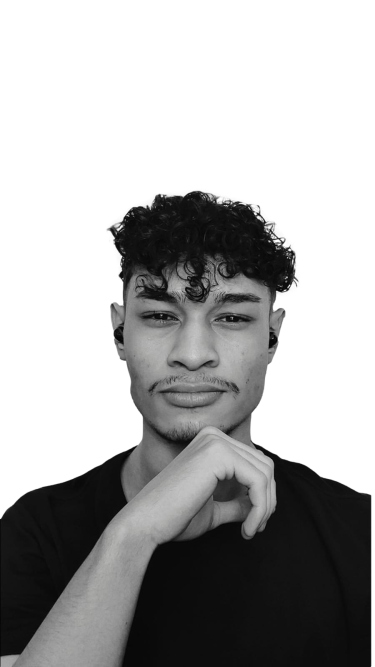
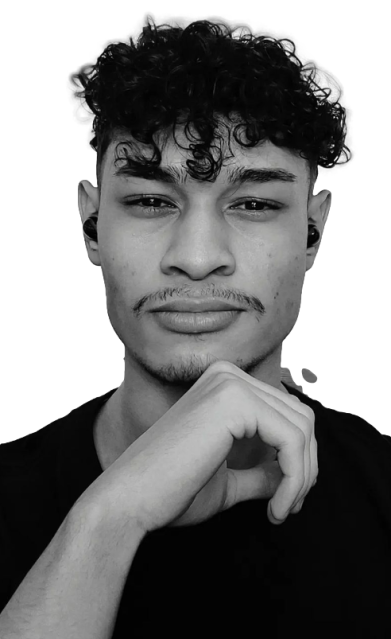
up6.2

diff --git a/portifolio-web/src/components/NavBar.jsx b/portifolio-web/src/components/NavBar.jsx
@@ -1,50 +1,49 @@
 import React from 'react';
 import { useState, useEffect } from 'react';
 import { Navbar, Nav, Container } from "react-bootstrap";
-import Logo from '../assets/img/logo.svg';
 import NavIcon1 from '../assets/img/nav-icon1.svg';
 import NavIcon2 from '../assets/img/github.png';
 import NavIcon3 from '../assets/img/nav-icon3.svg';
-export  const NavBar = () => {
-    const [activeLink, setActiveLink ] = useState('home');
+export const NavBar = () => {
+    const [activeLink, setActiveLink] = useState('home');
     const [scrolled, setScrolled] = useState(false);
 
-    useEffect(()=>{
-        const onScroll = () =>{
-            if(window.scrollY > 50){
+    useEffect(() => {
+        const onScroll = () => {
+            if (window.scrollY > 50) {
                 setScrolled(true);
-            }else{
+            } else {
                 setScrolled(false);
             }
-        } 
+        }
         window.addEventListener("scroll", onScroll);
 
         return () => window.removeEventListener("scroll", onScroll);
     }, [])
 
-    const onUpdateActiveLink = (value) =>{
+    const onUpdateActiveLink = (value) => {
         setActiveLink(value);
-    } 
+    }
     return (
         <>
-            <Navbar expand="lg" className={scrolled ? "scrolled": ""}>
+            <Navbar expand="lg" className={scrolled ? "scrolled" : ""}>
                 <Container>
                     <Navbar.Brand href="#home">
-                        <img src={Logo} alt="Logo" /> </Navbar.Brand>
+                    </Navbar.Brand>
                     <Navbar.Toggle aria-controls="basic-navbar-nav">
                         <span className='navbar-toggler-icon'></span>
                     </Navbar.Toggle>
                     <Navbar.Collapse id="basic-navbar-nav">
                         <Nav className="me-auto">
-                            <Nav.Link href="#home" className={activeLink === 'home' ? 'active navbar-link': 'navbar-link'} onClick={()=> onUpdateActiveLink('home')}>Home</Nav.Link>
-                            <Nav.Link href="#skills" className={activeLink === 'skills' ? 'active navbar-link': 'navbar-link' } onClick={()=> onUpdateActiveLink('skills')}>Skills</Nav.Link>
-                            <Nav.Link href="#projects" className={activeLink === 'projects' ? 'active navbar-link': 'navbar-link' } onClick={()=> onUpdateActiveLink('projects')}>Projetos</Nav.Link>
+                            <Nav.Link href="#home" className={activeLink === 'home' ? 'active navbar-link' : 'navbar-link'} onClick={() => onUpdateActiveLink('home')}>Home</Nav.Link>
+                            <Nav.Link href="#skills" className={activeLink === 'skills' ? 'active navbar-link' : 'navbar-link'} onClick={() => onUpdateActiveLink('skills')}>Skills</Nav.Link>
+                            <Nav.Link href="#projects" className={activeLink === 'projects' ? 'active navbar-link' : 'navbar-link'} onClick={() => onUpdateActiveLink('projects')}>Projetos</Nav.Link>
                         </Nav>
                         <span className='navbar-text'>
                             <div className='social-icon'>
-                                <a target="_blank" href='https://www.linkedin.com/in/matheus-emanoel-995b23181/'><img src={NavIcon1}/></a>
-                                <a target="_blank" href='/'><img src={NavIcon2}/></a>
-                                <a target="_blank"href='/'><img src={NavIcon3}/></a>
+                                <a target="_blank" href='https://www.linkedin.com/in/matheus-emanoel-995b23181/'><img src={NavIcon1} /></a>
+                                <a target="_blank" href='https://github.com/fehbr800'><img src={NavIcon2} /></a>
+                                <a target="_blank" href='https://www.instagram.com/math_emanoel/'><img src={NavIcon3} /></a>
                             </div>
                             <button className='' onClick={() => console.log('funcionando')} ><span>Vamos nos Conectar</span></button>
                         </span>

diff --git a/portifolio-web/src/components/Skills.jsx b/portifolio-web/src/components/Skills.jsx
@@ -29,34 +29,39 @@ export const Skills = () => {
     };
 
     return (
-        <section className='skill' id='skills'>
+        <section className='skill mt-5 mb-5' id='skills'>
             <Container>
                 <Row>
                     <Col>
 
                         <div className='skill-bx mt-4'>
 
-                            <h2>Skills</h2>
-                            <p>Lorem ipsum dolor, sit amet consectetur adipisicing elit. Rem praesentium numquam similique impedit maxime totam ex, quisquam nobis nemo reiciendis repellat odio aliquam quidem voluptatem exercitationem laborum enim quia cupiditate?</p>
+                            <h2 className='mb-5'>Skills</h2>
+                            
                             <TrackVisibility>
                                 {({ isVisible }) =>
                                     <div className={isVisible ? "animate__animated animate__bounce" : ""}>
                                         <Carousel responsive={responsive} infinite={true} className='skill-slider'>
                                             <div className='item'>
-                                                <img src={Meter1} />
-                                                <h5>Web Development</h5>
+                                            <img src="https://raw.githubusercontent.com/devicons/devicon/master/icons/html5/html5-original.svg" />
+            <img src="https://raw.githubusercontent.com/devicons/devicon/master/icons/css3/css3-original.svg" />
+                                                <h5>HTML/CSS</h5>
                                             </div>
                                             <div className='item'>
-                                                <img src={Meter2} />
-                                                <h5>Brand Identity</h5>
+                                            <img src="https://raw.githubusercontent.com/devicons/devicon/master/icons/javascript/javascript-plain.svg" />
+                                                <h5>JavaScript</h5>
                                             </div>
                                             <div className='item'>
-                                                <img src={Meter3} />
-                                                <h5>Logo Design </h5>
+                                            <img src="https://raw.githubusercontent.com/devicons/devicon/master/icons/react/react-original.svg" />
+                                                <h5>React </h5>
                                             </div>
                                             <div className='item'>
-                                                <img src={Meter1} />
-                                                <h5>Web Development</h5>
+                                            <img src="https://raw.githubusercontent.com/devicons/devicon/master/icons/nodejs/nodejs-original.svg" />
+                                                <h5>NodeJS</h5>
+                                            </div>
+                                            <div className='item'>
+                                                <img src="https://img.icons8.com/external-flaticons-flat-circular-flat-icons/512/external-ux-media-agency-flaticons-flat-circular-flat-icons.png" />
+                                                <h5>UX/UI</h5>
                                             </div>
                                         </Carousel>
                                     </div>}

diff --git a/portifolio-web/src/components/Projects.jsx b/portifolio-web/src/components/Projects.jsx
@@ -1,7 +1,7 @@
 import { Container, Row, Col, Tab, Nav } from "react-bootstrap";
 import { ProjectCard } from "./ProjectCard";
-import projImg1 from "../assets/img/project-img1.png";
-import projImg2 from "../assets/img/project-img2.png";
+import projImg1 from "../assets/img/projeto1.png";
+import projImg2 from "../assets/img/projeto2.png";
 import projImg3 from "../assets/img/project-img3.png";
 import ColorSharp2 from "../assets/img/color-sharp2.png";
 import TrackVisibility from 'react-on-screen';
@@ -10,7 +10,7 @@ import 'animate.css';
 export const Projects = () => {
     const projects = [
         {
-            title: "Business Startup",
+            title: "DH Flix",
             description: "Design & Development",
             imgUrl: projImg1,
         },
@@ -52,7 +52,7 @@ export const Projects = () => {
 
                                     <h2>Projetos</h2>
                                     <p>
-                                        Lorem ipsum dolor sit amet, consectetur adipisicing elit. Error saepe vitae sed pariatur aspernatur ea, voluptatum reprehenderit ex id, doloribus voluptates, repellat eos illo fuga exercitationem mollitia quo! Eum, optio!
+                                       Projetos atuais e futuros projetos a serem adicionados ao longo de minha jornada
                                     </p>
 
                                     <Tab.Container id="projects-tab" defaultActiveKey='first'>

diff --git a/portifolio-web/src/components/Footer.jsx b/portifolio-web/src/components/Footer.jsx
@@ -1,9 +1,8 @@
 import { Container, Row, Col } from "react-bootstrap";
 import { MailchimpForm } from "./MailchimpForm";
-import logo from "../assets/img/logo.svg";
-import navIcon1 from "../assets/img/nav-icon1.svg";
+import NavIcon1 from "../assets/img/nav-icon1.svg";
 import NavIcon2 from '../assets/img/github.png';
-import navIcon3 from "../assets/img/nav-icon3.svg";
+import NavIcon3 from "../assets/img/nav-icon3.svg";
 
 export const Footer = () => {
   return (
@@ -12,13 +11,13 @@ export const Footer = () => {
         <Row className="align-items-center">
           <MailchimpForm />
           <Col size={12} sm={6}>
-            <img src={logo} alt="Logo" />
+
           </Col>
           <Col size={12} sm={6} className="text-center text-sm-end">
             <div className="social-icon">
-              <a href="#"><img src={navIcon1} alt="Icon" /></a>
-              <a href="#"><img src={NavIcon2} alt="Icon" /></a>
-              <a href="#"><img src={navIcon3} alt="Icon" /></a>
+              <a target="_blank" href='https://www.linkedin.com/in/matheus-emanoel-995b23181/'><img src={NavIcon1} /></a>
+              <a target="_blank" href='https://github.com/fehbr800'><img src={NavIcon2} /></a>
+              <a target="_blank" href='https://www.instagram.com/math_emanoel/'><img src={NavIcon3} /></a>
             </div>
             <p>Copyright 2022. All Rights Reserved</p>
           </Col>

diff --git a/portifolio-web/src/components/Contact.jsx b/portifolio-web/src/components/Contact.jsx
@@ -24,7 +24,7 @@ export const Contact = () => {
 
     const handleSubmit = async (e) => {
         e.preventDefault();
-        setButtonText("Sending...");
+        setButtonText("Enviando...");
         let response = await fetch("http://localhost:3000/contact", {
           method: "POST",
           headers: {
@@ -32,7 +32,7 @@ export const Contact = () => {
           },
           body: JSON.stringify(formDetails),
         });
-        setButtonText("Send");
+        setButtonText("Enviar");
         let result = await response.json();
         setFormDetails(formInitialDetails);
         if (result.code == 200) {

diff --git a/portifolio-web/src/styles/index.css b/portifolio-web/src/styles/index.css
@@ -303,6 +303,15 @@ nav.navbar .navbar-toggler[aria-expanded=true] .navbar-toggler-icon {
   margin-left: 25px;
 }
 
+.banner img {
+  overflow: hidden;
+  border-radius: 999px;
+  -webkit-border-radius: 999px;
+  -moz-border-radius: 999px;
+  -ms-border-radius: 999px;
+  -o-border-radius: 999px;
+}
+
 @keyframes updown {
   0% {
     transform: translateY(-20px);

diff --git a/portifolio-web/src/styles/Banner.scss b/portifolio-web/src/styles/Banner.scss
@@ -49,7 +49,14 @@
   .banner button:hover svg {
     margin-left: 25px;
   }
-
+  .banner img {
+    overflow: hidden;
+    border-radius: 999px;
+    -webkit-border-radius: 999px;
+    -moz-border-radius: 999px;
+    -ms-border-radius: 999px;
+    -o-border-radius: 999px;
+}
   @keyframes updown {
       0% {
           transform: translateY(-20px);
